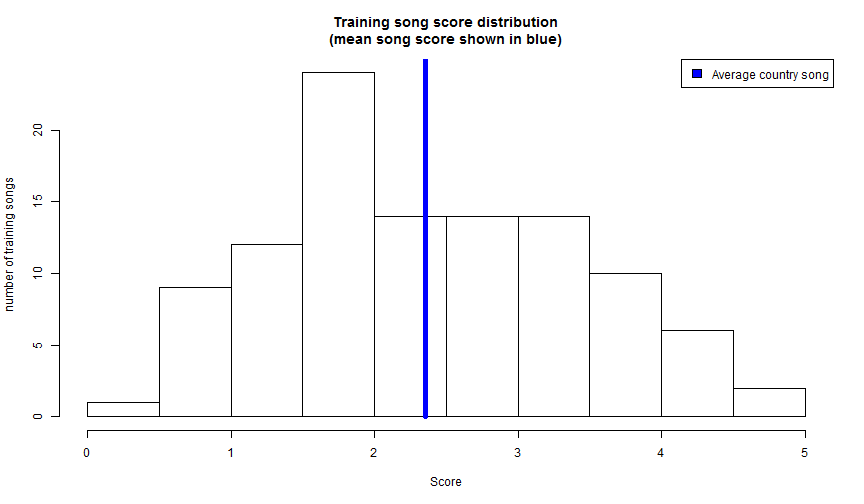
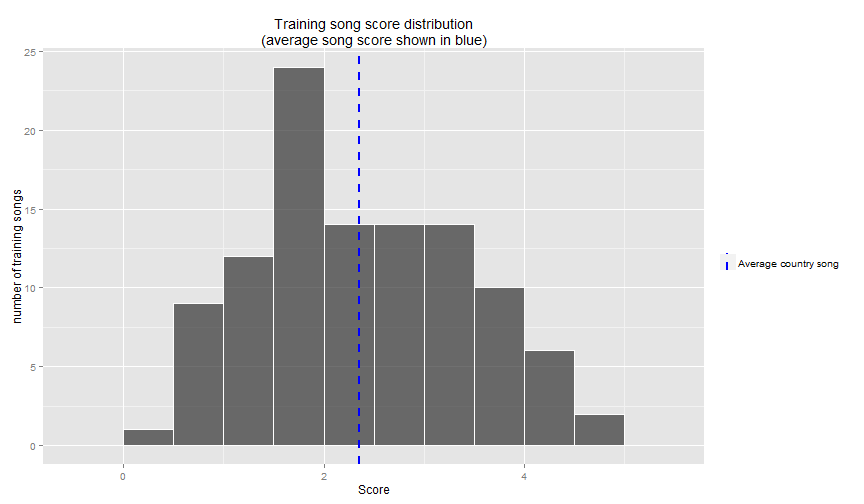
fixing up presentation a bit, using ggplot for histograms

diff --git a/Project/Presentation/ProjectPresentation/index.html b/Project/Presentation/ProjectPresentation/index.html
@@ -114,7 +114,9 @@ and 100 is least like country (see next slide for example score distribution)</l
     <h2>Training set score distribution</h2>
   </hgroup>
   <article data-timings="">
-    <p><img src="figure/unnamed-chunk-1.png" alt="plot of chunk unnamed-chunk-1"> </p>
+    <p>The following plot shows the training set score distribution which your song will be compared against.</p>
+
+<p><img src="figure/unnamed-chunk-1.png" alt="plot of chunk unnamed-chunk-1"> </p>
 
   </article>
   <!-- Presenter Notes -->
@@ -131,8 +133,11 @@ and 100 is least like country (see next slide for example score distribution)</l
 
 <ul>
 <li>Learn other music genres</li>
-<li>After learning other genres could we ask each model for a score and the model with the lowest score determines the class? </li>
+<li>After learning other genres could we ask each model for a score and the model with the lowest score determines the class? 
+
+<ul>
 <li>eg. Country, Jazz, Rock, etc.</li>
+</ul></li>
 <li>There is a lot of information loss when you just look at chord sequences, music has tempo, melody, time signatures, etc.  All of these features can contribute to the song genre.  Modeling these features seems like a good next step, but beyond the scope of this project.</li>
 </ul></li>
 <li>try it out! <a href="https://mdiplacido.shinyapps.io/IsMySongCountry/">https://mdiplacido.shinyapps.io/IsMySongCountry/</a></li>

diff --git a/Project/Presentation/ProjectPresentation/index.md b/Project/Presentation/ProjectPresentation/index.md
@@ -51,6 +51,8 @@ and 100 is least like country (see next slide for example score distribution)
 
 ## Training set score distribution
 
+The following plot shows the training set score distribution which your song will be compared against.
+
 ![plot of chunk unnamed-chunk-1](figure/unnamed-chunk-1.png) 
 
 ---
@@ -61,6 +63,6 @@ and 100 is least like country (see next slide for example score distribution)
 * Some ideas for making it better
   * Learn other music genres
   * After learning other genres could we ask each model for a score and the model with the lowest score determines the class? 
-  * eg. Country, Jazz, Rock, etc.
+      * eg. Country, Jazz, Rock, etc.
   * There is a lot of information loss when you just look at chord sequences, music has tempo, melody, time signatures, etc.  All of these features can contribute to the song genre.  Modeling these features seems like a good next step, but beyond the scope of this project.
 * try it out! https://mdiplacido.shinyapps.io/IsMySongCountry/
